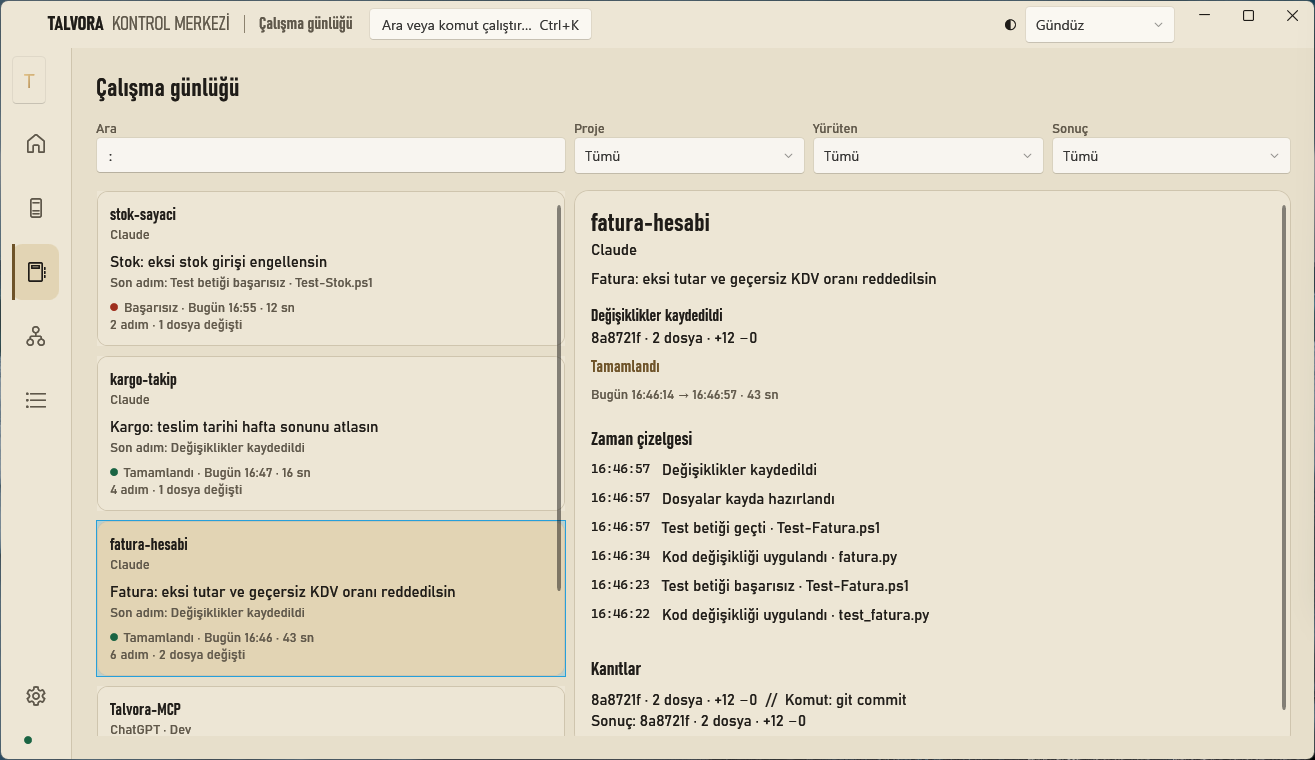
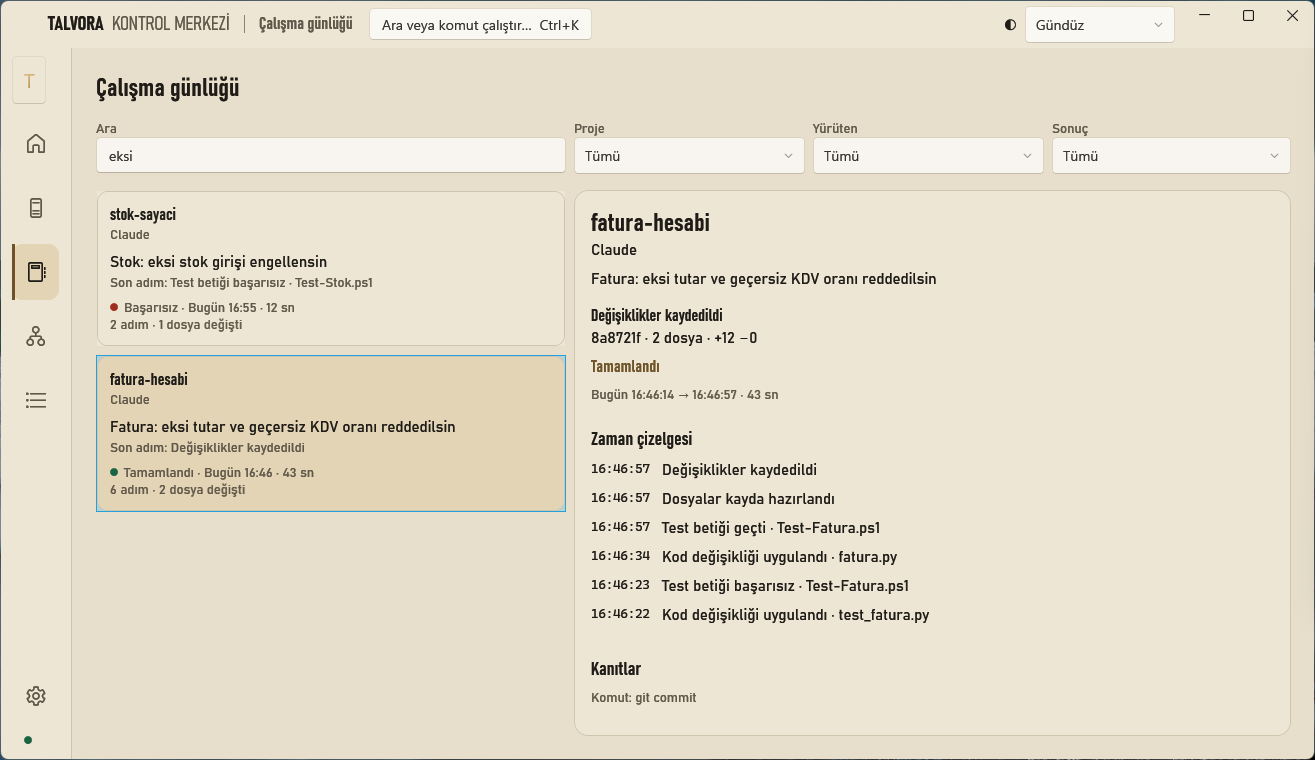
Talvora 0.0.1.1 sürüm notu hazır
Kurulumdaki güvenlik düzeltmesini ve çalışma günlüğü düzeltmelerini içeren düzeltme sürümü.

Card: RELEASE

Changed region(s): [[0.0624, 0.4539, 0.4365, 0.9684], [0.4365, 0.9079, 0.6859, 0.9684]]

diff --git a/docs/codex/STATUS.md b/docs/codex/STATUS.md
@@ -37,7 +37,7 @@ Legend: `[ ]` todo · `[x]` done · `[~]` done but waiting for user evidence · 
 - [ ] D83 — Test and build titles for cargo, uv and Python test runs (audit 58)
 - [x] [C] D85 — The installer starts msiexec from System32; Turkish service description (audit 58)
 - [x] [C] D86 — Çalışma günlüğü shows each fact once; tray menu Turkish (audit 58)
-- [ ] [C] REL-0.0.1.1 — Fix release with D85 (security fix), not before 2026-11-15: at most one release a day (Claude)
+- [x] [C] REL-0.0.1.1 — Fix release with D85 (security fix); cut on 2026-11-14 at the user's request (one-off exception to one release a day)
 
 ## User queue
 
@@ -55,6 +55,7 @@ Legend: `[ ]` todo · `[x]` done · `[~]` done but waiting for user evidence · 
 
 ## Log
 
+- 2026-11-14 — Claude, release 0.0.1.1 (user: "Bu görevi burada yapın", then "Şimdi yayımla": a one-off exception to "at most one release a day" for a security fix the user asked for; ledger updated). Content since v0.0.1.0: D85 (the elevated installer starts `msiexec.exe` from System32; Turkish service description), D86 ("Kanıtlar" no longer repeats a fact; tray menu and recovery notices in Turkish) and D79 (finished-form titles for agent_brief, gh_run, ping, note_write, workspace_inspect). Fourth number: fixes only. Notes `docs/releases/0.0.1.1.md`: Taylan's voice, Turkish, "Düzeltmeler" and "Bilinen sorunlar" (unsigned installer), short English summary; no card ids. README: the installer name is `Talvora-Kurulum-0.0.1.1.exe` in the install section, the `Get-FileHash` example and the English summary; `docs/media/calisma-gunlugu.png` retaken from the real Control Center of the installed 5b5e439 build (identical product code), Gündüz, the two demo sessions found with the search "eksi", fatura-hesabi selected: the commit fact shows once and "Kanıtlar" holds only "Komut: git commit" (the old picture showed the D86 duplication and a stray ":" in the search box). The other README pictures show no changed screen. The Control Center was put back as it was (Gece vardiyası, Genel bakış, same window placement). Proof before the tag: the signed-in Full gate of this commit, its CI, and its own `-ReleaseVersion 0.0.1.1` installer with both installed smokes.
 - 2026-11-14 — Claude, D85 and D86 installed and checked: clean-HEAD installer of 5b5e439 (SourceCommit 5b5e439, sha256 b39fed01…, 263,395,603 bytes) deployed through `talvora_run_powershell` with `maxOutputCharacters: 4000` (its hand-off line was 824 characters, the length D82 is about); `/healthz` = 5b5e439; metadata smoke TALVORA MCP METADATA POLICY LIVE GREEN; full installed smoke TALVORA MCP SMOKE GREEN; signed-in Full 73/0 `Hepsi geçti.` at 5b5e439; CI 43618882889 green (5 dk 8 sn). D84's file list now names `DeveloperTools.FileMutation.cs` (`talvora_replace_text`), seen while checking the card ahead of the agent.
 - 2026-11-14 — [C] D86, executor Claude (after D85): Çalışma günlüğü's detail column printed a commit step's fact three times — under the title (`Current.FactLine`), in "Kanıtlar" as "a05b675 · 1 dosya · +6 −1  //  Komut: git commit" with the raw separator, and again as "Sonuç: a05b675 · 1 dosya · +6 −1" (real session of 2026-11-14 13:47 UTC). "Kanıtlar" now says only what the step line does not: `EvidenceFact` (the summary's fact unless it equals the step line; other "  //  " separators read " · "), `EvidenceResult` (the result unless it repeats the step line or that fact) and `EvidenceCommand` ("Komut: git commit" on its own muted caption line); the heading shows only when one of them, a file or a code preview remains (presentation-only `[JsonIgnore]` properties, the stored history is unchanged). Tray menu: "Kontrol Merkezi'ni aç", "Gitea'yı aç", "Gitea'yı yeniden başlat", and the core is "Talvora Çekirdeği" (as in Hizmetler since D49) in the submenu and in the recovery notices and Olaylar entries ("Talvora Çekirdeği: müdahale gerekiyor", "Talvora Çekirdeği yeniden hazır"; the resolved-event key follows the name). Lifecycle exception texts were checked too: they reach only the log (the Control Center maps exceptions to `ControlCenterUserMessage`), so they stay. Red: the WL3 Control Center smoke with a D86 commit session ("D86: a commit step must show its fact once and its command as its own line, without '  //  '.") and `MainSurfaceTurkishRegression.ps1` (`old text still present: "Kontrol Merkezini aç"`); green after, captures of the commit detail in Gece vardiyası and Gündüz. Signed-in Changed 20/0 `Hepsi geçti.` (Claude's worktree). Context7 noLookup (own texts and properties).
   Self-review — Cosmetics: one fact per detail column; the command is a muted caption under "Kanıtlar"; both themes checked.

diff --git a/README.md b/README.md
@@ -39,12 +39,12 @@ Talvora'da en çok kullandığım parça bu kart. En üstte ajanın üzerinde ç
 
 ## Kurulum
 
-En son sürümün kurulum dosyası [Releases](https://github.com/bingoweb/Talvora-MCP/releases/latest) sayfasında: şu an `Talvora-Kurulum-0.0.1.0.exe`. İndirip çalıştırman yeterli. Kurulum yönetici izni ister, Windows hizmetini, Kontrol Merkezi'ni ve Başlat menüsü kısayolunu yerleştirir; PowerShell 7 yoksa Microsoft'un resmi paketini indirip doğrulayarak onu da kurar. Gerekenler: Windows 10 ya da 11 (64 bit) ve yönetici yetkisi. Program dosyaları `C:\Program Files\Talvora` altına, kayıtlar ve ayarlar `C:\ProgramData\Talvora` altına gider; her şey yolundaysa `http://127.0.0.1:7676/healthz` adresi çalışan sürümü gösterir.
+En son sürümün kurulum dosyası [Releases](https://github.com/bingoweb/Talvora-MCP/releases/latest) sayfasında: şu an `Talvora-Kurulum-0.0.1.1.exe`. İndirip çalıştırman yeterli. Kurulum yönetici izni ister, Windows hizmetini, Kontrol Merkezi'ni ve Başlat menüsü kısayolunu yerleştirir; PowerShell 7 yoksa Microsoft'un resmi paketini indirip doğrulayarak onu da kurar. Gerekenler: Windows 10 ya da 11 (64 bit) ve yönetici yetkisi. Program dosyaları `C:\Program Files\Talvora` altına, kayıtlar ve ayarlar `C:\ProgramData\Talvora` altına gider; her şey yolundaysa `http://127.0.0.1:7676/healthz` adresi çalışan sürümü gösterir.
 
 Kurulum dosyası henüz imzalı değil. Windows bu yüzden ilk açılışta bir uyarı gösterebilir: **Ek bilgi**'ye, sonra **Yine de çalıştır**'a bas. İstersen önce dosyanın SHA-256 değerini aynı sayfadaki `SHA256SUMS.txt` ile karşılaştır:
 
 ```powershell
-Get-FileHash .\Talvora-Kurulum-0.0.1.0.exe -Algorithm SHA256
+Get-FileHash .\Talvora-Kurulum-0.0.1.1.exe -Algorithm SHA256
 ```
 
 Kaldırmak için Windows Ayarları'ndaki yüklü uygulamalar listesinde Talvora'yı seçip kaldır. Kontrol Merkezi'nden sonradan kurduğun ek bileşenler (Gitea, Penpot, ChatGPT tüneli) bu kaldırmaya dahil değildir.
@@ -113,4 +113,4 @@ Kendi kodum MIT lisansıyla açık: [LICENSE](LICENSE). Talvora'nın kullandığ
 
 ### In English
 
-Talvora is a local MCP server for Windows. It runs as a Windows service and gives AI clients such as ChatGPT, Claude Code and Codex a set of structured tools for real development work: transactional source edits, builds and tests that run as the signed-in user, Windows administration, Git, background jobs and dev servers. A desktop Control Center shows its health, and a small card shows what an agent is doing while it works. The interface is in Turkish. Talvora runs with LocalSystem rights and listens on 127.0.0.1 only, so install it on your own development machine. Download the installer from [Releases](https://github.com/bingoweb/Talvora-MCP/releases/latest) (currently `Talvora-Kurulum-0.0.1.0.exe`); it is not signed yet, so Windows SmartScreen may ask you to confirm. Versions are `0.0.feature.fix`, released in batches once the changes are verified (security and crash fixes at once), each with Turkish notes and a short English summary; the Control Center checks for a new release once a day and never installs anything by itself. The code is MIT licensed.
+Talvora is a local MCP server for Windows. It runs as a Windows service and gives AI clients such as ChatGPT, Claude Code and Codex a set of structured tools for real development work: transactional source edits, builds and tests that run as the signed-in user, Windows administration, Git, background jobs and dev servers. A desktop Control Center shows its health, and a small card shows what an agent is doing while it works. The interface is in Turkish. Talvora runs with LocalSystem rights and listens on 127.0.0.1 only, so install it on your own development machine. Download the installer from [Releases](https://github.com/bingoweb/Talvora-MCP/releases/latest) (currently `Talvora-Kurulum-0.0.1.1.exe`); it is not signed yet, so Windows SmartScreen may ask you to confirm. Versions are `0.0.feature.fix`, released in batches once the changes are verified (security and crash fixes at once), each with Turkish notes and a short English summary; the Control Center checks for a new release once a day and never installs anything by itself. The code is MIT licensed.

diff --git a/docs/releases/0.0.1.1.md b/docs/releases/0.0.1.1.md
@@ -1,0 +1,16 @@
+Merhaba, ben Taylan. Bu küçük bir düzeltme sürümü. En önemli parçası kurulum dosyasındaki bir güvenlik düzeltmesi, o yüzden beklemeden yayımlıyorum.
+
+## Düzeltmeler
+
+- **Kurulumda güvenlik düzeltmesi.** Bilgisayarında PowerShell 7 yoksa kurulum onu Microsoft'un resmi paketinden kurar. Bu paketi açan Windows kurucusunu (`msiexec.exe`) artık doğrudan Windows'un sistem klasöründen çalıştırıyor. Önceki sürüm onu yalnızca adıyla çağırıyordu; Windows da böyle bir adı önce kurulum dosyasının durduğu klasörde, çoğu zaman İndirilenler'de arar. Oraya aynı adla bırakılmış bir dosya, yönetici yetkisiyle çalışabilirdi. Bu yalnızca kurulum sırasında ve PowerShell 7 eksikken önemliydi; kurulu bir Talvora'yı etkilemiyor.
+- **Çalışma günlüğü kendini tekrar etmiyor.** "Kanıtlar" bölümü artık yalnızca adımın altında yazmayan bilgiyi gösteriyor. Bir commit'in özeti üç kez yazılmıyor, komut da ayrı ve soluk bir satırda duruyor.
+- **Adımlar bitmiş cümlelerle okunuyor.** Ajanın oturum başında proje talimatlarını alması, GitHub komutları, bağlantı denetimi, kasaya not yazma ve proje incelemesi artık "Proje talimatları alındı", "Kasaya not yazıldı" gibi görünüyor.
+- **Türkçe düzeltmeleri.** Tepsi menüsünde "Kontrol Merkezi'ni aç", "Gitea'yı aç" ve "Gitea'yı yeniden başlat" yazıyor; yerel servis menüde ve bildirimlerde de Hizmetler sayfasındaki gibi "Talvora Çekirdeği" adıyla geçiyor. Windows'un servisler listesindeki açıklama da artık Türkçe.
+
+## Bilinen sorunlar
+
+- Kurulum dosyası henüz imzalı değil, bu yüzden Windows ilk açılışta bir uyarı gösterebilir. **Ek bilgi**'ye, sonra **Yine de çalıştır**'a basman yeterli. İstersen önce dosyanın SHA-256 değerini bu sayfadaki `SHA256SUMS.txt` ile karşılaştırabilirsin.
+
+---
+
+**In English:** A small fix release, published right away because of an installer security fix. When PowerShell 7 is missing, the installer now starts Windows Installer (`msiexec.exe`) from the Windows system folder instead of by name, so a file with that name left next to the installer, for example in Downloads, can no longer run with administrator rights. It only mattered during installation, not for an installed Talvora. The work log's evidence section no longer repeats the same fact, agent steps read as finished sentences, and the tray menu, notifications and Windows service description are now proper Turkish. The installer is still unsigned, so compare it with `SHA256SUMS.txt`.
